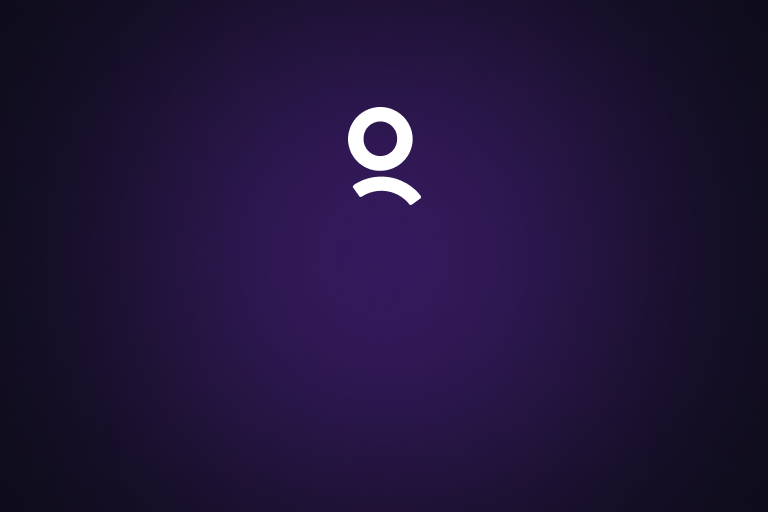
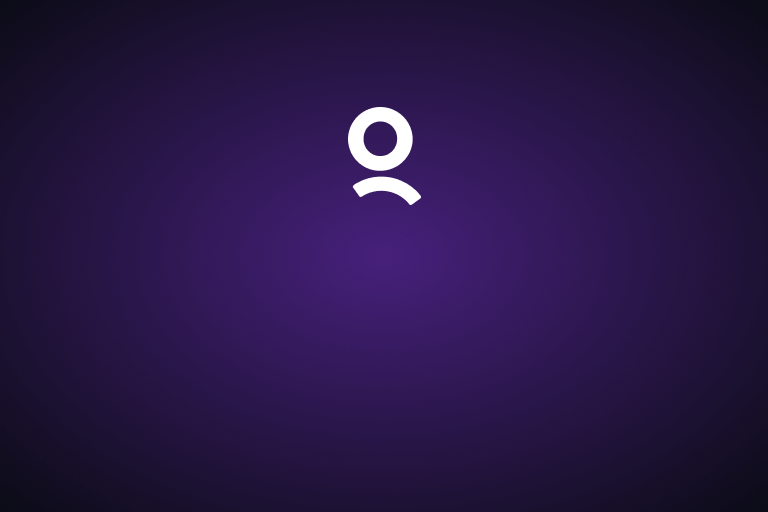
Linting and compressing of frame template image

Changed region(s): [[0.4062, 0.4375, 0.5938, 0.5625]]

diff --git a/pages/api/profile/[fid].ts b/pages/api/profile/[fid].ts
@@ -2,9 +2,6 @@ import type { NextApiRequest, NextApiResponse } from 'next'
 import Jimp from 'jimp'
 import * as path from 'path'
 import {
-  getUserProfilePictureFromFid
-} from '../utils/farcasterServer'
-import {
   countUserAnswers,
   findCurrentStreak
 } from '../../../models/userAnswers'
@@ -12,27 +9,29 @@ import {
   loadKumbSans50
 } from '../../../utils/frames/fonts'
 
-async function createCircularImage(url: string, baseImage: Jimp): Promise<Jimp> {
-  try {
-    const urlImage = await Jimp.read(url)
-
-    const maskImage = await Jimp.read(
-      path.join(process.cwd(), 'public/frame_template_mask.png')
-    )
-
-    maskImage.resize(85, 85)
-    urlImage.resize(85, 85)
-
-    urlImage.mask(maskImage, 0, 0)
-
-    baseImage.composite(urlImage, 440, 133.5)
-
-    return baseImage
-  } catch (error) {
-    console.error('Error creating circular image:', error)
-    throw error
-  }
-}
+// Note: This is used to create a circle masked image
+//
+// async function createCircularImage(url: string, baseImage: Jimp): Promise<Jimp> {
+//   try {
+//     const urlImage = await Jimp.read(url)
+// 
+//     const maskImage = await Jimp.read(
+//       path.join(process.cwd(), 'public/frame_template_mask.png')
+//     )
+// 
+//     maskImage.resize(85, 85)
+//     urlImage.resize(85, 85)
+// 
+//     urlImage.mask(maskImage, 0, 0)
+// 
+//     baseImage.composite(urlImage, 440, 133.5)
+// 
+//     return baseImage
+//   } catch (error) {
+//     console.error('Error creating circular image:', error)
+//     throw error
+//   }
+// }
 
 const getProfileFramePictureImage = async (
   req: NextApiRequest,
